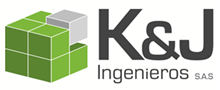
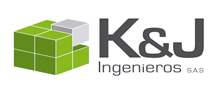
Break line arreglado, ícono mejorado y calidad de las imágenes mejoradas, falta redefinirlas por porcentajes, no por tamaño pero eso después porque tengo mucho sueño

diff --git a/AppConstruccion/src/com/movilapps/appconstruccion/FormularioActivity.java b/AppConstruccion/src/com/movilapps/appconstruccion/FormularioActivity.java
@@ -1,11 +1,14 @@
 package com.movilapps.appconstruccion;
 
+import java.io.File;
+import java.io.FileNotFoundException;
 import java.io.IOException;
 import java.io.InputStream;
 import java.io.UnsupportedEncodingException;
 import java.text.SimpleDateFormat;
 import java.util.ArrayList;
 import java.util.Calendar;
+import java.util.Date;
 
 import android.app.ActionBar;
 import android.app.ActionBar.Tab;
@@ -13,6 +16,7 @@ import android.app.Activity;
 import android.app.AlertDialog;
 import android.app.Fragment;
 import android.app.FragmentTransaction;
+import android.content.ContentResolver;
 import android.content.Context;
 import android.content.DialogInterface;
 import android.content.Intent;
@@ -25,6 +29,7 @@ import android.graphics.Matrix;
 import android.graphics.drawable.BitmapDrawable;
 import android.net.Uri;
 import android.os.Bundle;
+import android.os.Environment;
 import android.provider.MediaStore;
 import android.support.v4.app.FragmentActivity;
 import android.util.Log;
@@ -36,6 +41,7 @@ import android.view.MenuInflater;
 import android.view.MenuItem;
 import android.view.View;
 import android.view.ViewGroup;
+import android.webkit.MimeTypeMap;
 import android.widget.AdapterView;
 import android.widget.AdapterView.OnItemSelectedListener;
 import android.widget.ArrayAdapter;
@@ -56,6 +62,8 @@ public class FormularioActivity extends FragmentActivity {
 	static ArrayList<DatoFormularioFactory> arrayListFormulario;
 	ArrayList<String> datosPDF;
 
+	private static Uri contentUri;
+	private static Bitmap fotoBitmapFinal;
 	private static ImageView foto1;
 	private static ImageView foto2;
 	private static EditText evidenciaEscrita = null;
@@ -155,7 +163,7 @@ public class FormularioActivity extends FragmentActivity {
 			String nombreFormularioEmail = generalIntent
 					.getStringExtra("nombreFormulario");
 			datosPDF.add(nombreFormularioEmail);
-			
+
 			if (!recogerDatos(false)) {
 
 				if (evidenciaEscrita == null) {
@@ -187,7 +195,7 @@ public class FormularioActivity extends FragmentActivity {
 						if (pic1 == null) {
 							Log.e("PIC1", "NULL");
 						}
-						enviarMail(pic1, pic2);
+						enviarMail(fotoBitmapFinal, pic2);
 
 					}
 				}
@@ -554,7 +562,6 @@ public class FormularioActivity extends FragmentActivity {
 	public static class ExampleFragmentTwo extends Fragment {
 
 		private static final int MAX_IMAGE_DIMENSION = 250;
-		private Bitmap fotoBitmapFinal;
 		private Spinner spinnerObservaciones;
 		public View lastContextMenuButton;
 
@@ -634,8 +641,27 @@ public class FormularioActivity extends FragmentActivity {
 			switch (requestCode) {
 			case 0:// Toma foto
 				if (resultCode == RESULT_OK) {
-					fotoBitmapFinal = (Bitmap) imageReturnedIntent.getExtras()
-							.get("data");
+					// fotoBitmapFinal = (Bitmap)
+					// imageReturnedIntent.getExtras().get("data");
+
+					getActivity().getContentResolver().notifyChange(contentUri,
+							null);
+					ContentResolver cr = getActivity().getContentResolver();
+
+					try {
+						fotoBitmapFinal = android.provider.MediaStore.Images.Media
+								.getBitmap(cr, contentUri);
+					} catch (Exception e) {
+						Toast.makeText(getActivity(), "Failed to load",
+								Toast.LENGTH_SHORT).show();
+						Log.e("ERROR", "Failed to load");
+					}
+					fotoBitmapFinal = Bitmap.createScaledBitmap(
+							fotoBitmapFinal, 400, 400, false);
+
+					Log.e("BITMAP", "SIZE:" + fotoBitmapFinal.getWidth()
+							+ " - " + fotoBitmapFinal.getHeight());
+
 					foto1.setImageBitmap(fotoBitmapFinal);
 					isFoto1Default = false;
 				}
@@ -659,6 +685,7 @@ public class FormularioActivity extends FragmentActivity {
 				if (resultCode == RESULT_OK) {
 					fotoBitmapFinal = (Bitmap) imageReturnedIntent.getExtras()
 							.get("data");
+
 					foto2.setImageBitmap(fotoBitmapFinal);
 					isFoto2Default = false;
 				}
@@ -797,7 +824,21 @@ public class FormularioActivity extends FragmentActivity {
 		private void tomarFoto(View v) {
 			if (v == foto1) {
 				Intent takePicture = new Intent(MediaStore.ACTION_IMAGE_CAPTURE);
-				startActivityForResult(takePicture, 0);
+
+				// Create the File where the photo should go
+				File photoFile = null;
+				try {
+					photoFile = createImageFile();
+				} catch (IOException ex) {
+					Log.e("ERROR", "NOT CREATED");
+				}
+				// Continue only if the File was successfully created
+				if (photoFile != null) {
+					contentUri = Uri.fromFile(photoFile);
+					takePicture.putExtra(MediaStore.EXTRA_OUTPUT, contentUri);
+					startActivityForResult(takePicture, 0);
+				}
+
 			} else if (v == foto2) {
 				Intent takePicture = new Intent(MediaStore.ACTION_IMAGE_CAPTURE);
 				startActivityForResult(takePicture, 2);
@@ -830,6 +871,25 @@ public class FormularioActivity extends FragmentActivity {
 			}
 		}
 
+	}
+
+	static String mCurrentPhotoPath;
+
+	private static File createImageFile() throws IOException {
+		// Create an image file name
+		String timeStamp = new SimpleDateFormat("yyyyMMdd_HHmmss")
+				.format(new Date());
+		String imageFileName = "JPEG_" + timeStamp + "_";
+		File storageDir = Environment
+				.getExternalStoragePublicDirectory(Environment.DIRECTORY_PICTURES);
+		File image = File.createTempFile(imageFileName, /* prefix */
+				".jpg", /* suffix */
+				storageDir /* directory */
+		);
+
+		// Save a file: path for use with ACTION_VIEW intents
+		mCurrentPhotoPath = "file:" + image.getAbsolutePath();
+		return image;
 	}
 
 }
